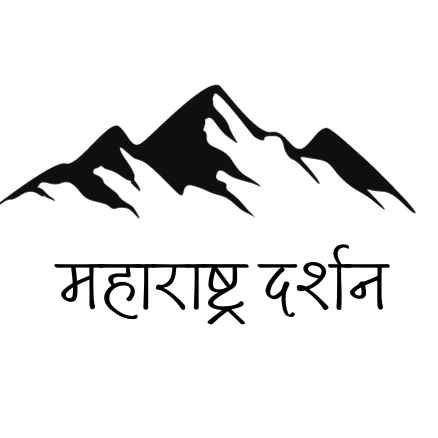
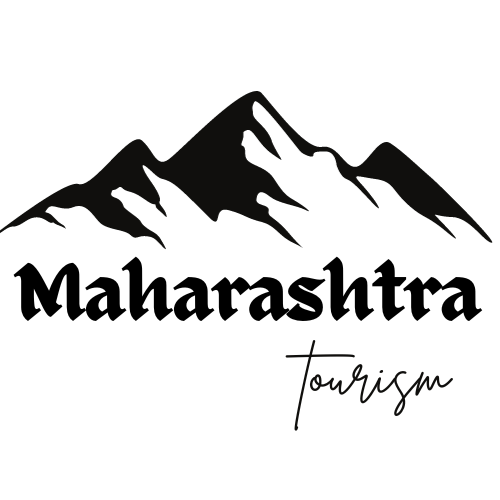
updated according to maharashtratourism

diff --git a/gadkille/templates/base/base.html b/gadkille/templates/base/base.html
@@ -2,7 +2,7 @@
 <!DOCTYPE html>
 <html lang="en">
   <head>
-    <title>Maharashtra Gadkille</title>
+    <title>Maharashtra Tourism</title>
     <meta charset="utf-8">
     <meta name="viewport" content="width=device-width, initial-scale=1, shrink-to-fit=no">
     
@@ -63,7 +63,7 @@
               <a href="{{url}}" class="nav-link">Contact</a>
             </li>
 	          <li class="nav-item cta">
-              <a href="https://www.instagram.com/maharashtra_gadkille/" class="nav-link" target="_blank">Follow us</a>
+              <a href="https://www.instagram.com/ursmaheshj" class="nav-link" target="_blank">Follow us</a>
             </li>
 
 	        </ul>
@@ -85,9 +85,9 @@
                 <p>"प्रतिपच्चंद्रलेखेव वर्धिष्णुर्विश्ववन्दिता ।। <br>
                   शाहसूनोः शिवस्यैषा मुद्रा भद्राय राजते ।।"</p>
                 <ul class="ftco-footer-social list-unstyled float-md-left float-lft mt-5">
-                  <li class="ftco-animate"><a href="https://mobile.twitter.com/maha_gadkille"><span class="icon-twitter"></span></a></li>
-                  <li class="ftco-animate"><a href="https://www.facebook.com/100082783434176"><span class="icon-facebook"></span></a></li>
-                  <li class="ftco-animate"><a href="https://www.instagram.com/maharashtra_gadkille/" target="_blank"><span class="icon-instagram"></span></a></li>
+                  <li class="ftco-animate"><a href="https://mobile.twitter.com/ursmaheshj"><span class="icon-twitter"></span></a></li>
+                  <li class="ftco-animate"><a href="https://www.facebook.com/ursmaheshj"><span class="icon-facebook"></span></a></li>
+                  <li class="ftco-animate"><a href="https://www.instagram.com/ursmaheshj" target="_blank"><span class="icon-instagram"></span></a></li>
                 </ul>
               </div>
             </div>
@@ -97,9 +97,9 @@
                   <h2 class="ftco-heading-2">Have a Questions?</h2>
                   <div class="block-23 mb-3">
                     <ul>
-                      <li><span class="icon icon-map-marker"></span><span class="text">Trimurti chowk Bharti Vidyapeeth, Katraj, Pune, Maharashtra 411046</span></li>
-                      <li><a href="tel:8799856476"><span class="icon icon-phone"></span><span class="text">8799856476</span></a></li>
-                      <li><a href="mailto:instamaharashtragadkille@gmail.com"><span class="icon icon-envelope"></span><span class="text">instamaharashtragadkille@gmail.com</span></a></li>
+                      <li><span class="icon icon-map-marker"></span><span class="text">Hinjawadi - Phase 1, Pune, Maharashtra 411057</span></li>
+                      <li><a href="tel:1234567890"><span class="icon icon-phone"></span><span class="text">1234567890</span></a></li>
+                      <li><a href="mailto:omkar28399@gmail.com"><span class="icon icon-envelope"></span><span class="text">omkar28399@gmail.com</span></a></li>
                       <li><a href="https://ursmaheshj.github.io/Mahesh-Jadhav/"><span class="icon icon-bug"></span><span class="text">Developer details</span></a></li>
                     </ul>
                   </div>
@@ -110,7 +110,7 @@
             <div class="col-md-12 text-center">
   
               <p><!-- Link back to Colorlib can't be removed. Template is licensed under CC BY 3.0. -->
-    Copyright &copy;<script>document.write(new Date().getFullYear());</script> All rights reserved by <a href="https://www.instagram.com/maharashtra_gadkille">MaharashtraGadkille</a> | This template is made with <i class="icon-heart color-danger" aria-hidden="true"></i> by <a href="https://colorlib.com" target="_blank">Colorlib</a>
+    Copyright &copy;<script>document.write(new Date().getFullYear());</script> All rights reserved by <a href="https://www.instagram.com/ursmaheshj">MaharashtraTourism</a> | This template is made with <i class="icon-heart color-danger" aria-hidden="true"></i> by <a href="https://colorlib.com" target="_blank">Colorlib</a>
     <!-- Link back to Colorlib can't be removed. Template is licensed under CC BY 3.0. --></p>
               
             </div>

diff --git a/gadkille/templates/contact.html b/gadkille/templates/contact.html
@@ -23,7 +23,7 @@
           			<span class="icon-map-signs"></span>
           		</div>
           		<h3 class="mb-2">Address</h3>
-	            <p>Trimurti chowk Bharti Vidyapeeth, Katraj, Pune, Maharashtra 411046</p>
+	            <p>Hinjawadi Phase 1, Pune, Maharashtra 411057</p>
 	          </div>
           </div>
           <div class="col-md-4 d-flex">
@@ -32,8 +32,7 @@
           			<span class="icon-phone2"></span>
           		</div>
           		<h3 class="mb-2">Contact Number</h3>
-	            <p><a href="tel:8799856476">8799856476</a><br>
-              <a href="tel:8262811995">8262811995</a></p>
+	            <p><a href="tel:1234567890">1234567890</a></p>
 	          </div>
           </div>
           <div class="col-md-4 d-flex">
@@ -42,7 +41,7 @@
           			<span class="icon-paper-plane"></span>
           		</div>
           		<h3 class="mb-2">Email Address</h3>
-	            <p><a href="mailto:instamaharashtragadkille@gmail.com">instamaharashtragadkille@gmail.com</a></p>
+	            <p><a href="mailto:omkar28399@gmail.com">omkar28399@gmail.com</a></p>
 	          </div>
           </div>
           
@@ -95,7 +94,7 @@
           </div>
 
           <div class="col-md-6 d-flex">
-            <iframe src="https://www.google.com/maps/embed?pb=!1m14!1m8!1m3!1d236.5406065507153!2d73.85081014153442!3d18.454207282586626!3m2!1i1024!2i768!4f13.1!3m3!1m2!1s0x0%3A0xe7669ebd58fd74ba!2sMaharashtra%20Gadkille%20Community!5e0!3m2!1sen!2sin!4v1661874668627!5m2!1sen!2sin" width="600" height="500" style="border:0;" allowfullscreen="" loading="lazy" referrerpolicy="no-referrer-when-downgrade"></iframe>
+            <iframe src="https://www.google.com/maps/embed?pb=!1m18!1m12!1m3!1d7527.091342349902!2d73.76494285918113!3d19.388815397639558!2m3!1f0!2f0!3f0!3m2!1i1024!2i768!4f13.1!3m3!1m2!1s0x3bdd6df2c430becd%3A0xdbfdfe67fdf19957!2sKonkan%20Kada!5e0!3m2!1sen!2sin!4v1705315803211!5m2!1sen!2sin" width="600" height="500" style="border:0;" allowfullscreen="" loading="lazy" referrerpolicy="no-referrer-when-downgrade"></iframe>
           </div>
         </div>
       </div>

diff --git a/MaharashtraTourism/settings.py b/MaharashtraTourism/settings.py
@@ -104,20 +104,22 @@ DATABASES = {
 #     'PORT': '5432',
 #     }
 # }
+
+
 # To use Neon with Django, you have to create a Project on Neon and specify the project connection settings in your settings.py in the same way as for standalone Postgres.
 
 ##############Vercel
-# DATABASES = {
-#   'default': {
-#     'ENGINE': 'django.db.backends.postgresql',
-#     'NAME': 'MaharashtraTourism',
-#     'USER': 'omkar28399',
-#     'PASSWORD': 'TC2c3vaMuGsI',
-#     'HOST': 'ep-lively-union-64125674.ap-southeast-1.aws.neon.tech',
-#     'PORT': '5432',
-#     'OPTIONS': {'sslmode': 'require'},
-#   }
-# }
+DATABASES = {
+  'default': {
+    'ENGINE': 'django.db.backends.postgresql',
+    'NAME': 'MaharashtraTourism',
+    'USER': 'omkar28399',
+    'PASSWORD': 'TC2c3vaMuGsI',
+    'HOST': 'ep-lively-union-64125674.ap-southeast-1.aws.neon.tech',
+    'PORT': '5432',
+    'OPTIONS': {'sslmode': 'require'},
+  }
+}
 
 # Password validation
 # https://docs.djangoproject.com/en/4.0/ref/settings/#auth-password-validators
